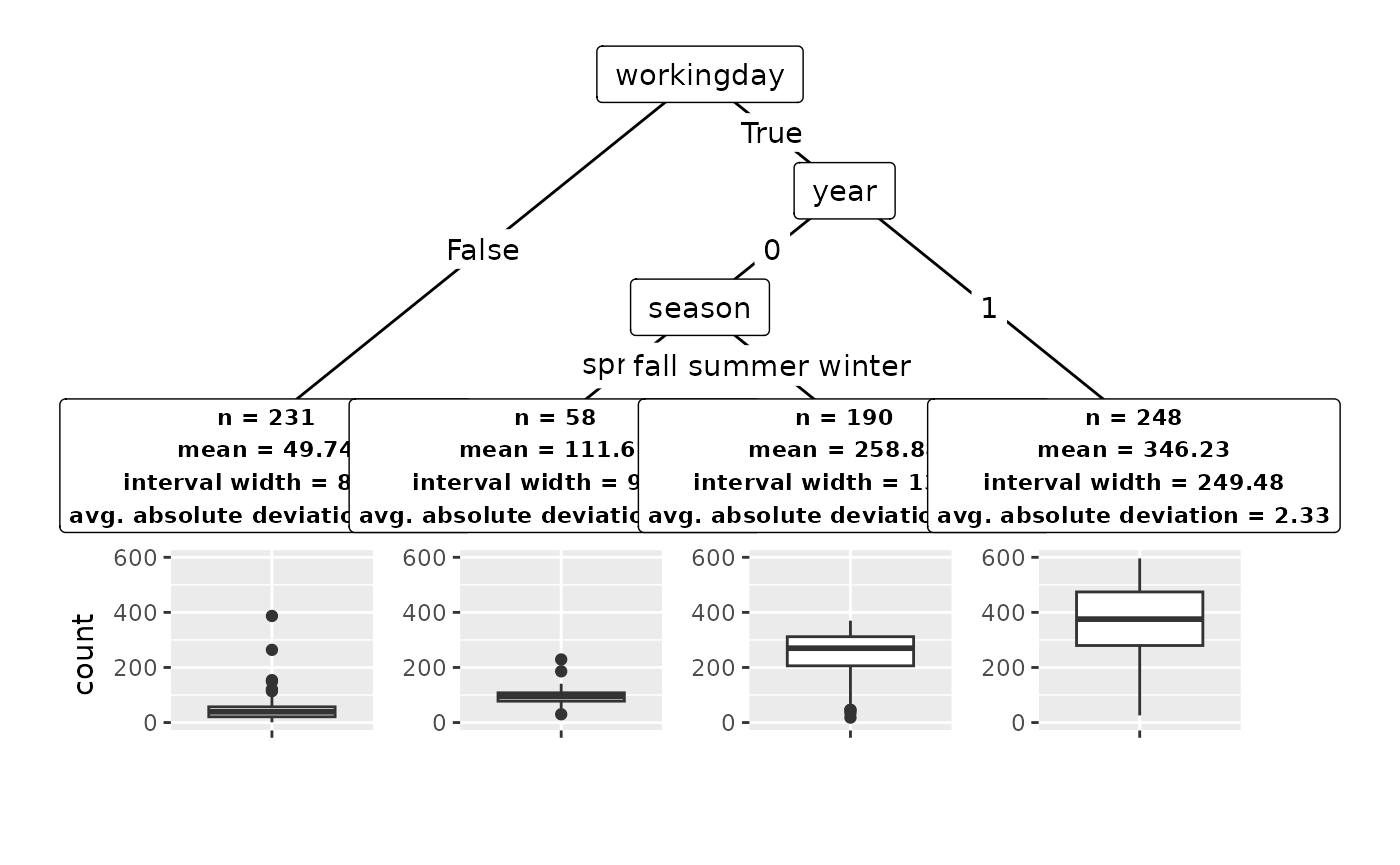
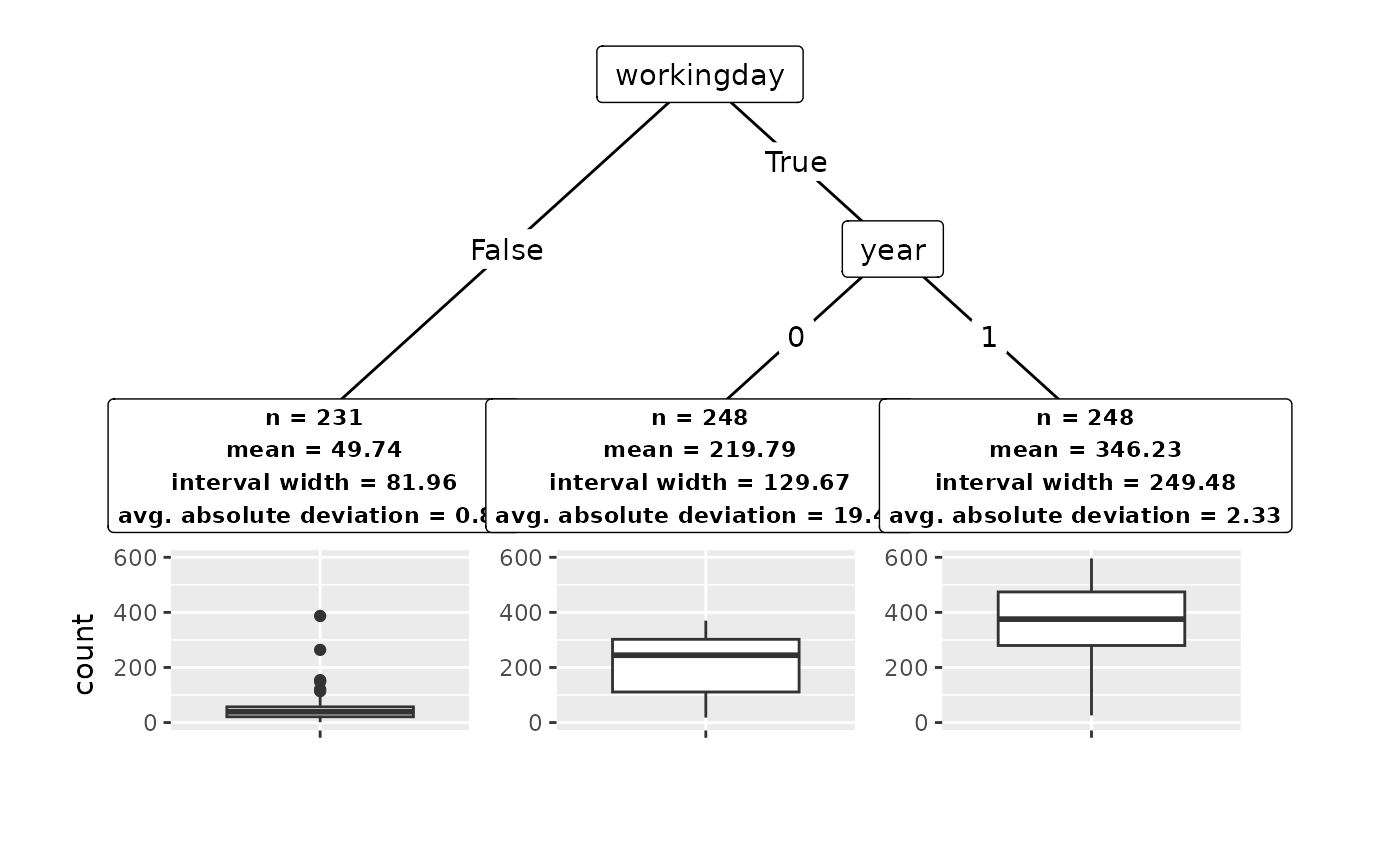
Deploying to gh-pages from @ holgstr/conftree@6e31cee91d8972a318aa356574af924d4b53069c 🚀

diff --git a/articles/conftree.html b/articles/conftree.html
@@ -93,7 +93,7 @@
 <span>  alpha <span class="op">=</span> <span class="fl">0.1</span>,</span>
 <span>  gamma <span class="op">=</span> <span class="fl">0.01</span>,</span>
 <span>  lambda <span class="op">=</span> <span class="fl">0.5</span>,</span>
-<span>  max_groups <span class="op">=</span> <span class="fl">4</span></span>
+<span>  max_groups <span class="op">=</span> <span class="fl">3</span></span>
 <span><span class="op">)</span></span></code></pre></div>
 </div>
 <div class="section level3">
@@ -101,24 +101,21 @@
 </h3>
 <div class="sourceCode" id="cb5"><pre class="downlit sourceCode r">
 <code class="sourceCode R"><span><span class="va">groups</span></span>
-<span><span class="co">#&gt; Conformal tree with 4 subgroups:</span></span>
+<span><span class="co">#&gt; Conformal tree with 3 subgroups:</span></span>
 <span><span class="co">#&gt; [1] root</span></span>
 <span><span class="co">#&gt; |   [2] workingday in False: *</span></span>
 <span><span class="co">#&gt; |   [3] workingday in True</span></span>
-<span><span class="co">#&gt; |   |   [4] year in 0</span></span>
-<span><span class="co">#&gt; |   |   |   [5] season in spring: *</span></span>
-<span><span class="co">#&gt; |   |   |   [6] season in fall, summer, winter: *</span></span>
-<span><span class="co">#&gt; |   |   [7] year in 1: *</span></span>
+<span><span class="co">#&gt; |   |   [4] year in 0: *</span></span>
+<span><span class="co">#&gt; |   |   [5] year in 1: *</span></span>
 <span><span class="co">#&gt; ---</span></span>
 <span><span class="co">#&gt; * terminal nodes (subgroups)</span></span></code></pre></div>
 <div class="sourceCode" id="cb6"><pre class="downlit sourceCode r">
 <code class="sourceCode R"><span><span class="fu"><a href="https://rdrr.io/r/base/summary.html" class="external-link">summary</a></span><span class="op">(</span><span class="va">groups</span><span class="op">)</span></span>
-<span><span class="co">#&gt; Conformal tree with 4 subgroups:</span></span>
+<span><span class="co">#&gt; Conformal tree with 3 subgroups:</span></span>
 <span><span class="co">#&gt;     n   mean  width deviation</span></span>
 <span><span class="co">#&gt; 1 231  49.74  81.96      0.89</span></span>
-<span><span class="co">#&gt; 2  58 111.62  93.34      0.56</span></span>
-<span><span class="co">#&gt; 3 190 258.88 131.23      5.37</span></span>
-<span><span class="co">#&gt; 4 248 346.23 249.48      2.33</span></span>
+<span><span class="co">#&gt; 2 248 219.79 129.67     19.44</span></span>
+<span><span class="co">#&gt; 3 248 346.23 249.48      2.33</span></span>
 <span><span class="co">#&gt; ---</span></span>
 <span><span class="co">#&gt; Alpha:  0.1 Lambda:  0.5 Gamma:  0.01</span></span></code></pre></div>
 <div class="sourceCode" id="cb7"><pre class="downlit sourceCode r">

diff --git a/reference/plot.conftree.html b/reference/plot.conftree.html
@@ -78,7 +78,7 @@
 <span class="r-msg co"><span class="r-pr">#&gt;</span> <span style="color: #BB0000;">✖</span> <span style="color: #0000BB;">dplyr</span>::<span style="color: #00BB00;">filter()</span>  masks <span style="color: #0000BB;">stats</span>::filter()</span>
 <span class="r-msg co"><span class="r-pr">#&gt;</span> <span style="color: #BB0000;">✖</span> <span style="color: #0000BB;">dplyr</span>::<span style="color: #00BB00;">lag()</span>     masks <span style="color: #0000BB;">stats</span>::lag()</span>
 <span class="r-msg co"><span class="r-pr">#&gt;</span> <span style="color: #BB0000;">✖</span> <span style="color: #0000BB;">recipes</span>::<span style="color: #00BB00;">step()</span>  masks <span style="color: #0000BB;">stats</span>::step()</span>
-<span class="r-msg co"><span class="r-pr">#&gt;</span> <span style="color: #0000BB;">•</span> Use suppressPackageStartupMessages() to eliminate package startup messages</span>
+<span class="r-msg co"><span class="r-pr">#&gt;</span> <span style="color: #0000BB;">•</span> Use <span style="color: #00BB00;">tidymodels_prefer()</span> to resolve common conflicts.</span>
 <span class="r-in"><span><span class="kw"><a href="https://rdrr.io/r/base/library.html" class="external-link">library</a></span><span class="op">(</span><span class="va"><a href="https://imbs-hl.github.io/ranger/" class="external-link">ranger</a></span><span class="op">)</span></span></span>
 <span class="r-in"><span><span class="fu"><a href="https://rdrr.io/r/utils/data.html" class="external-link">data</a></span><span class="op">(</span><span class="va">bikes</span><span class="op">)</span></span></span>
 <span class="r-in"><span><span class="fu"><a href="https://rdrr.io/r/base/Random.html" class="external-link">set.seed</a></span><span class="op">(</span><span class="fl">1234</span><span class="op">)</span></span></span>

diff --git a/articles/experiments.html b/articles/experiments.html
@@ -138,7 +138,7 @@ and
 <math display="inline" xmlns="http://www.w3.org/1998/Math/MathML"><semantics><mrow><msub><mo>max</mo><mi>g</mi></msub><mi>r</mi><mi>o</mi><mi>u</mi><mi>p</mi><mi>s</mi></mrow><annotation encoding="application/x-tex">\max_groups</annotation></semantics></math>
 is left at the default of
 <math display="inline" xmlns="http://www.w3.org/1998/Math/MathML"><semantics><mn>10</mn><annotation encoding="application/x-tex">10</annotation></semantics></math>.
-We set
+In R2P+, we use <code>cv_folds = 20</code>. Further, we set
 <math display="inline" xmlns="http://www.w3.org/1998/Math/MathML"><semantics><mrow><mi>α</mi><mo>=</mo><mn>0.2</mn></mrow><annotation encoding="application/x-tex">\alpha = 0.2</annotation></semantics></math>,
 which means at least 4 observations must be placed in any potential
 subgroup. Note that setting
